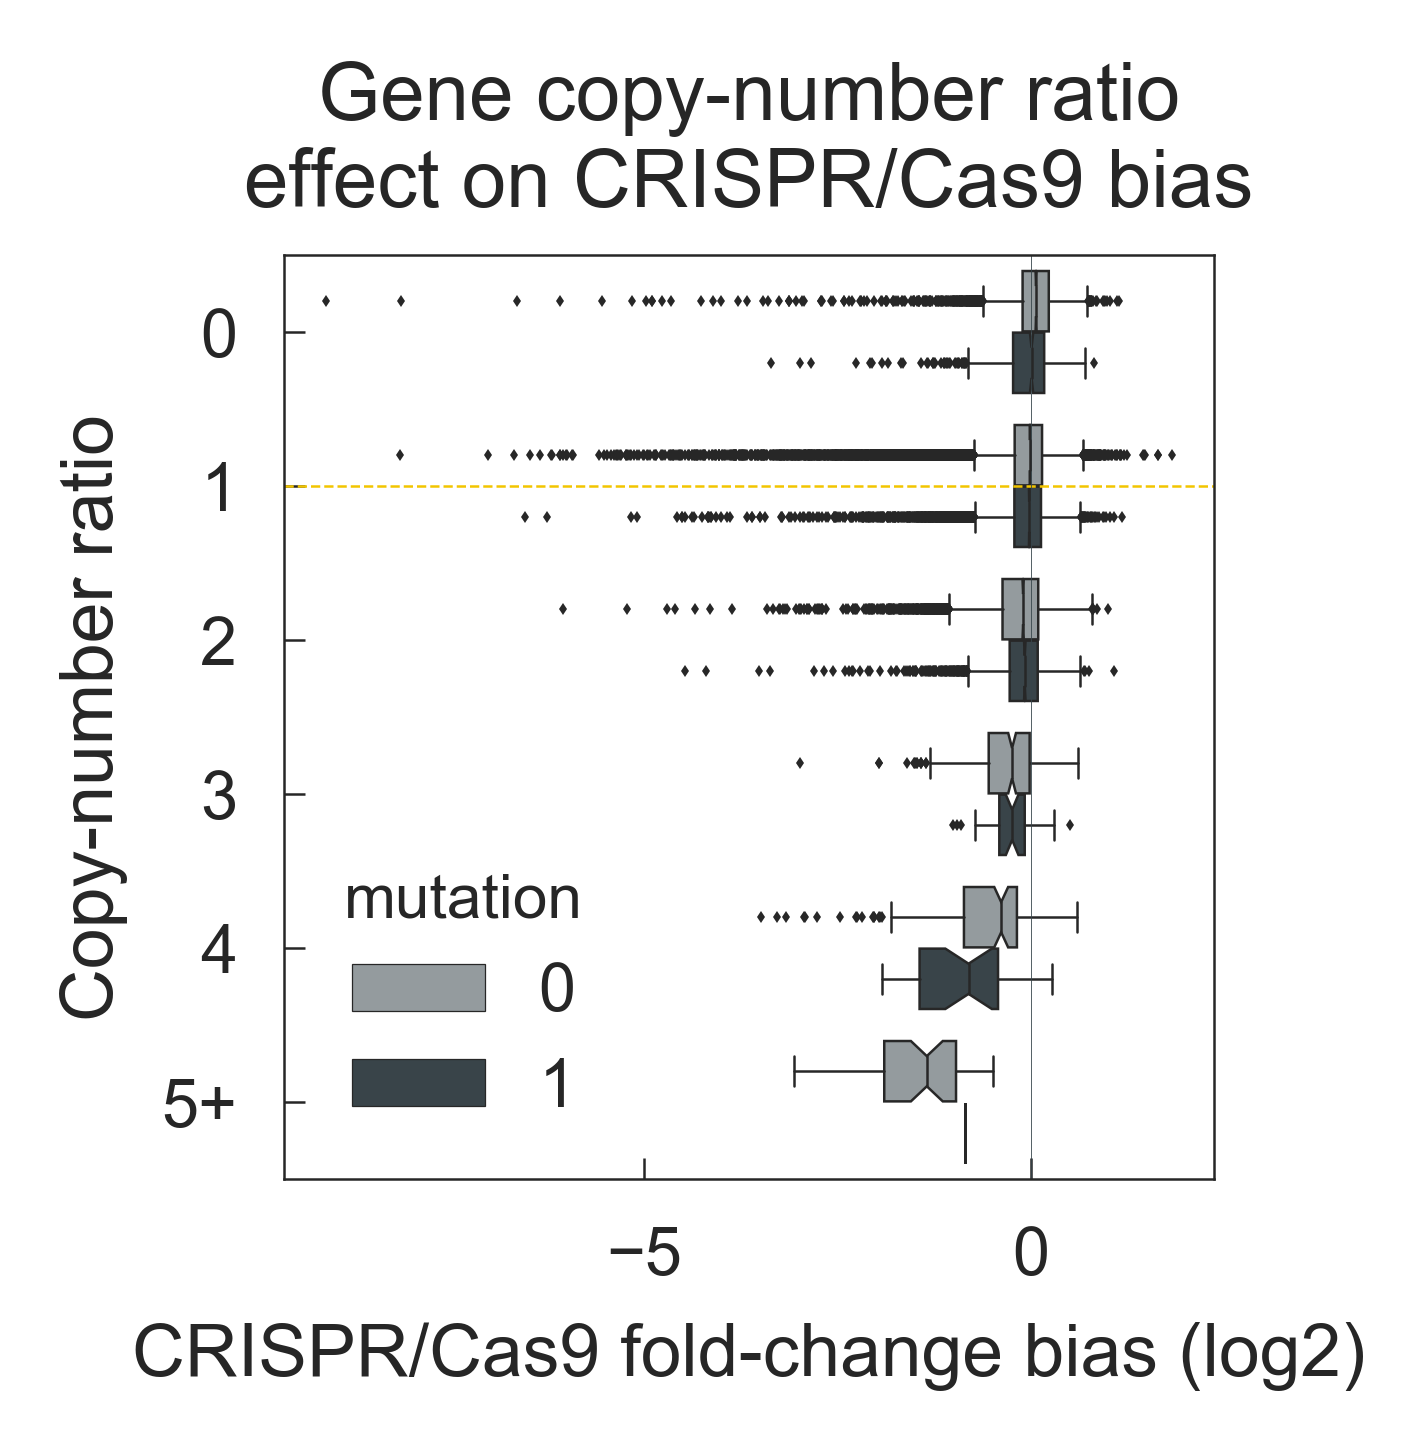
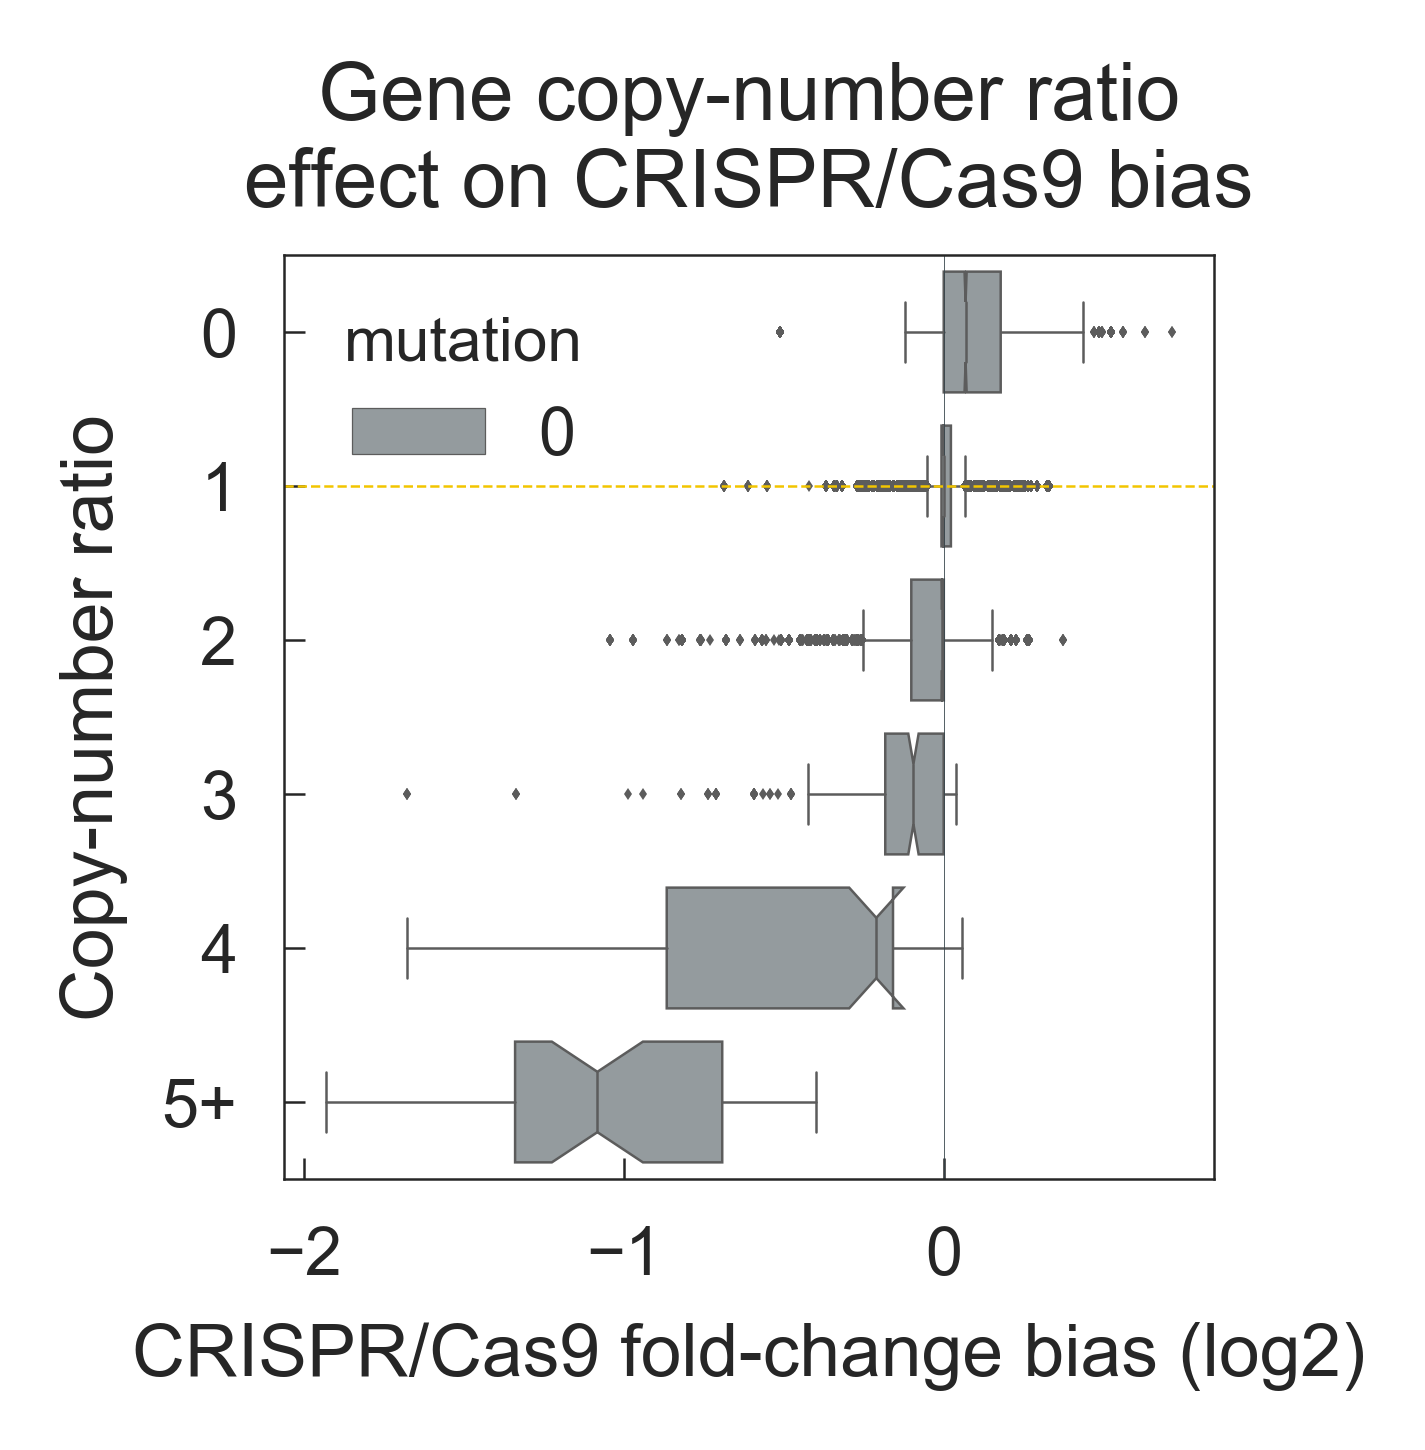
copy-number ratio effects minor updated testing other genomic features

diff --git a/scripts/crispy/cnv_effect_var.py b/scripts/crispy/cnv_effect_var.py
@@ -151,7 +151,7 @@ order = natsorted(set(df['ratio_bin']))
 
 plot_df = df[df['sample'].isin(set(ss[ss['Cancer Type'] == 'Breast Carcinoma'].index))]
 # plot_df = df.copy()
-plot_df = plot_df.assign(mutation=mobems.loc['BRCA1_mut', plot_df['sample']].values)
+plot_df = plot_df.assign(mutation=mobems.loc['ATM_mut', plot_df['sample']].values)
 
 sns.boxplot('crispr', 'ratio_bin', 'mutation', data=plot_df, orient='h', linewidth=.3, fliersize=1, order=order, palette=sns.light_palette(bipal_dbgd[0], n_colors=3).as_hex()[1:], notch=True)
 
